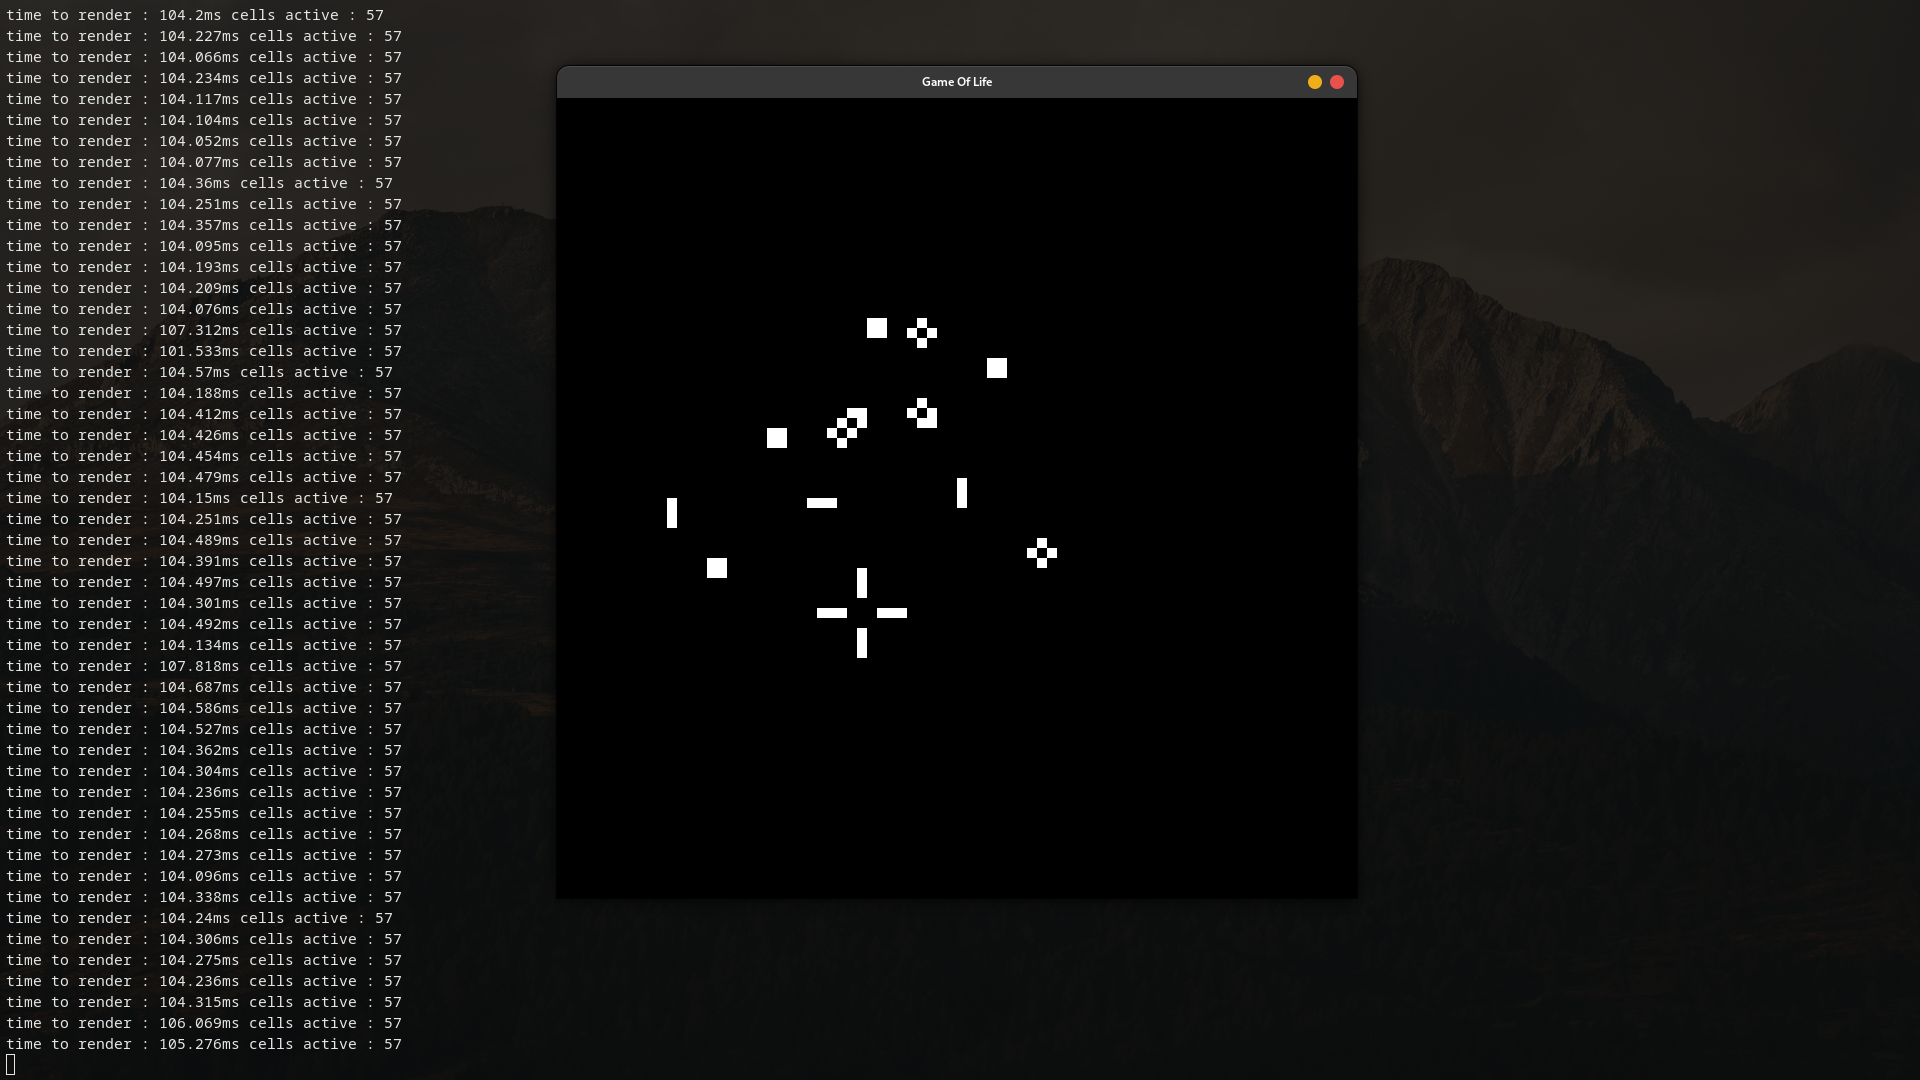
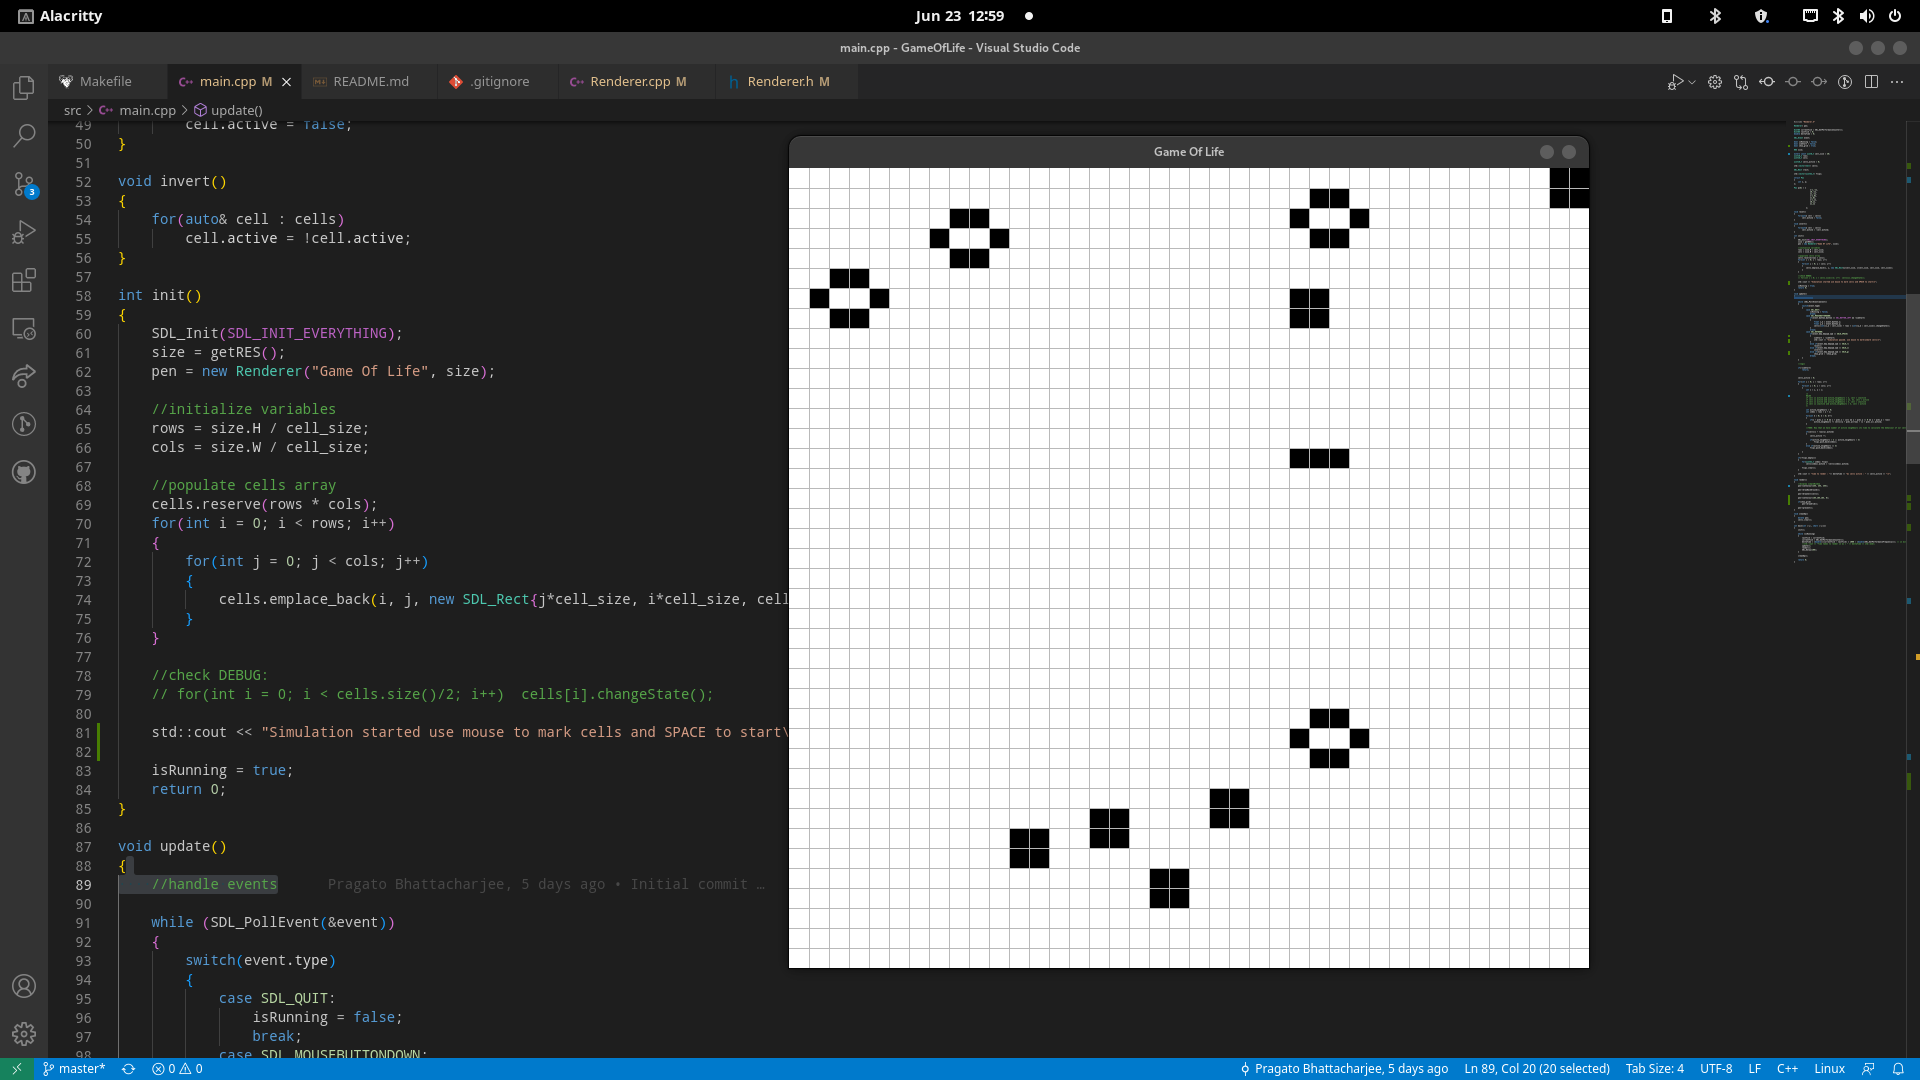
added better colors and grid

diff --git a/src/main.cpp b/src/main.cpp
@@ -10,10 +10,11 @@ SDL_Event event;
 
 bool isRunning = false;
 bool simStart = false;
+bool show_grid = true;
 
 RES size;
 
-const uint8_t cell_size = 10;
+extern const uint8_t cell_size = 20;
 uint16_t rows;
 uint16_t cols;
 
@@ -77,6 +78,8 @@ int init()
 	//check DEBUG: 
 	// for(int i = 0; i < cells.size()/2; i++)	cells[i].changeState();
 
+	std::cout << "Simulation started use mouse to mark cells and SPACE to start\n";
+
 	isRunning = true;
 	return 0;
 }
@@ -102,11 +105,16 @@ void update()
 				break;
 			case SDL_KEYDOWN:
 				if(event.key.keysym.sym == SDLK_SPACE)
+				{	
 					simStart = !simStart;
+					std::cout << "Simulation paused. use mouse to mark/unmark cells\n";
+				}
 				else if(event.key.keysym.sym == SDLK_r)
 					reset();
 				else if(event.key.keysym.sym == SDLK_s)
 					invert();	
+				else if(event.key.keysym.sym == SDLK_g)
+					show_grid = !show_grid;	
 				break;
 		}
 	}
@@ -127,7 +135,7 @@ void update()
 			int x = j, y = i;
 
 			/*
-			RULES
+			RULES 
 			if cell is active and active_neighbours < 2, cell = inactive
 			if cell is active and active_neighbours = {2, 3}, cell = active
 			if cell is active and active_neighbours > 3, cell = inactive
@@ -172,11 +180,16 @@ void update()
 void render()
 {
     //display simpleWindow
-	pen->setColour(0, 0, 0);
+	pen->setColour(255, 255, 255);
 
 	pen->drawBackGround();
 	
 	pen->drawCell(cells);
+
+	pen->setColour(185,185,185, 0);
+
+	if(show_grid)
+		pen->drawGrid();
     
 	pen->present();
 }

diff --git a/src/Renderer.cpp b/src/Renderer.cpp
@@ -28,9 +28,28 @@ void Renderer::setColour(uint8_t R, uint8_t G, uint8_t B)
 	SDL_SetRenderDrawColor(renderer, R, G, B, SDL_ALPHA_OPAQUE);
 }
 
+void Renderer::setColour(uint8_t R, uint8_t G, uint8_t B, uint8_t A)
+{
+	SDL_SetRenderDrawColor(renderer, R, G, B, A);
+
+}
+
+
 void Renderer::present()
 {
 	SDL_RenderPresent(renderer);
+}
+
+void Renderer::drawGrid()
+{
+	for (int i = cell_size; i < size.H; i+=cell_size)
+	{
+		SDL_RenderDrawLine(renderer, 0, i, size.W, i);
+	}
+	for (int i = cell_size; i < size.W; i+=cell_size)
+	{
+		SDL_RenderDrawLine(renderer, i, 0, i, size.H);
+	}
 }
 
 void Renderer::drawCell(std::vector<Cell> &cells)
@@ -38,9 +57,9 @@ void Renderer::drawCell(std::vector<Cell> &cells)
 	for(auto cell : cells)
 	{
 		if(cell.active)
-			setColour(255,255,255);
-		else
 			setColour(0,0,0);
+		else
+			setColour(255,255,255);
 		drawRect(cell.rect);
 	}
 }

diff --git a/include/Renderer.h b/include/Renderer.h
@@ -1,6 +1,8 @@
 #pragma once
 #include "Cell.h"
 
+extern const uint8_t cell_size;
+
 class Renderer
 {
 private:
@@ -13,8 +15,10 @@ public:
     ~Renderer();
     int drawBackGround();
 	void setColour(uint8_t R, uint8_t G, uint8_t B);
+	void setColour(uint8_t R, uint8_t G, uint8_t B, uint8_t A);
 	void setRandomColour();
 	void present();
     void drawCell(std::vector<Cell> &cells);
+    void drawGrid();
     void drawRect(SDL_Rect* rect);
 };

diff --git a/README.md b/README.md
@@ -7,7 +7,7 @@ Real time interactive simulation of Conway's Game of Life made with c++/sdl2.
 
 
 press `space` to pause and play anytime and use `left-mouse button` to mark/unmark cells.
-use `r` for reset and `s` for inverting cell marks.
+use `r` for reset, `s` for inverting cell marks and `g` to switch grid view.
 
 ## How to run
 
